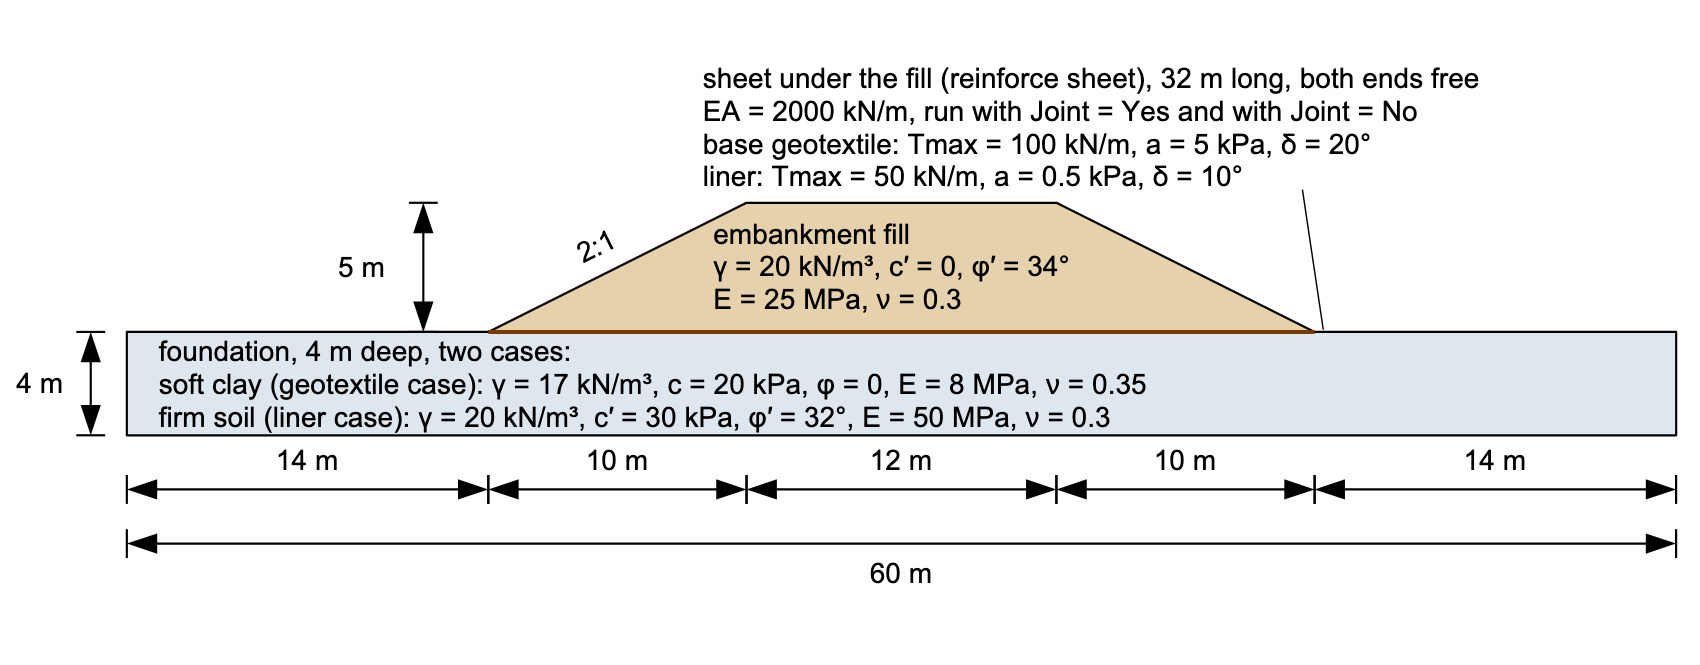
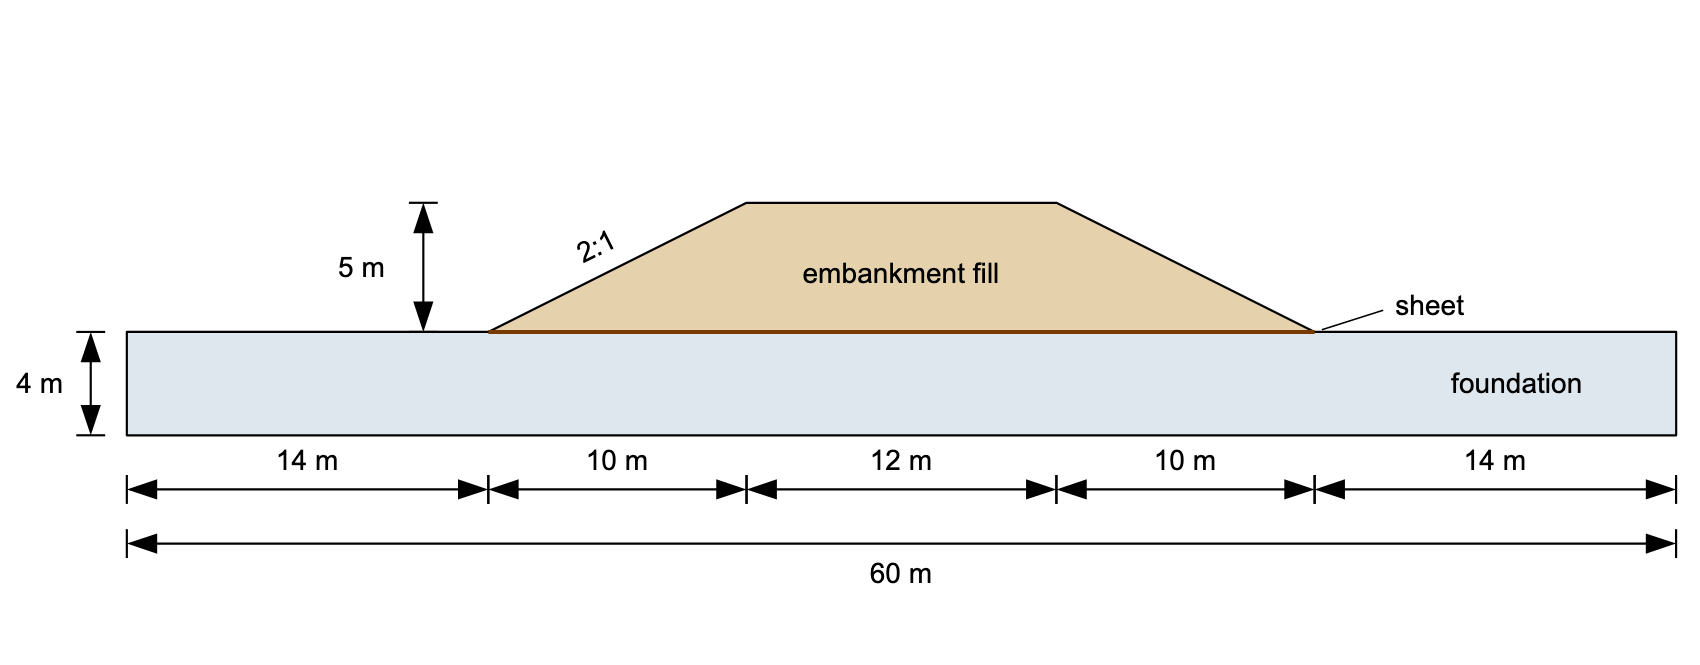
docs(tutorials): FEM-3 Part 3 sketch carries geometry only; the parameters are two tables
Claude-Session: https://claude.ai/code/session_01XjjT2aBxw8gY7EFdpoUcpj

diff --git a/docs/tutorials/fem03_block_wall_joints.md b/docs/tutorials/fem03_block_wall_joints.md
@@ -466,7 +466,21 @@ show both halves of it. Each is an embankment 5 m high with one sheet under it,
 each is built twice with the `Joint` cell as the only difference, and each is run
 at the settings this page has used throughout.
 
-![The Part 3 embankment: 5 m high on 2:1 slopes with a 12 m crest, on a 4 m foundation, with one 32 m sheet under it; the foundation and the sheet are given for both cases](images/fem03_sheet_problem_sketch.png){width=1000}
+![The Part 3 embankment: 5 m high on 2:1 slopes with a 12 m crest, on a 4 m foundation, with one 32 m sheet under it](images/fem03_sheet_problem_sketch.png){width=1000}
+
+The fill is the same in both cases. The foundation and the sheet are what
+change:
+
+| zone | case | γ (kN/m³) | c (kPa) | φ (°) | E (MPa) | ν |
+| --- | --- | :---: | :---: | :---: | :---: | :---: |
+| embankment fill | both | 20 | 0 | 34 | 25 | 0.3 |
+| foundation | base geotextile: soft clay | 17 | 20 | 0 | 8 | 0.35 |
+| foundation | liner: firm soil | 20 | 30 | 32 | 50 | 0.3 |
+
+| sheet | Tmax (kN/m) | Adhesion (kPa) | Delta (°) | EA (kN/m) | ends |
+| --- | :---: | :---: | :---: | :---: | :---: |
+| base geotextile | 100 | 5 | 20 | 2000 | both free |
+| liner | 50 | 0.5 | 10 | 2000 | both free |
 
 The first is a **base geotextile** under an embankment on soft clay
 ([bonded](files/xslope_base_geotextile_bonded.xlsx),
